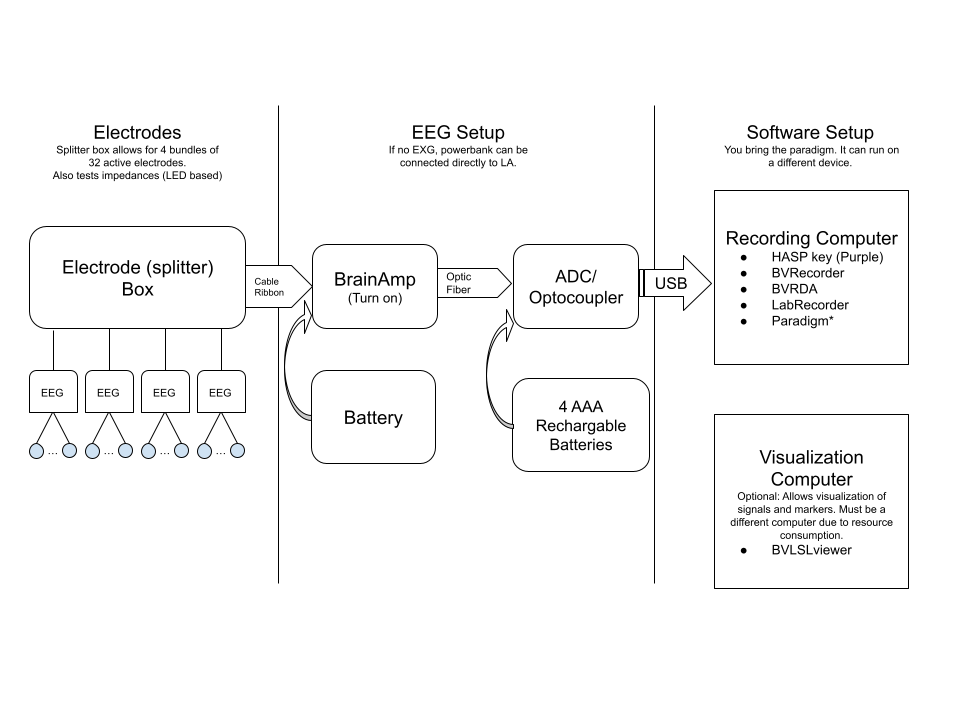
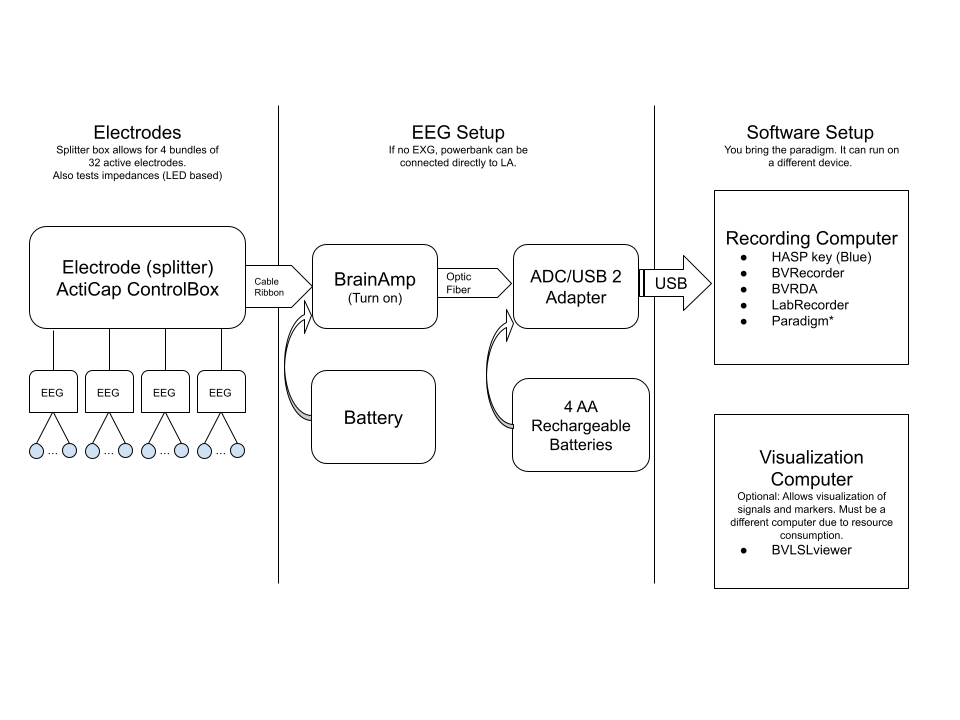
Update BrainAmp diagram

diff --git a/BrainAmp/README.md b/BrainAmp/README.md
@@ -2,7 +2,7 @@
 
 The following diagrams and checklists can help you setup your experiment consistently. If you have any observation or suggestion please open an issue or make a PR.
 
-![Diagram for BrainAmp](./DiagramBrainAmp.png)
+![Diagram for BrainAmp](./DiagramBrainAmp.jpg)
 
 ### Layouts
 
@@ -15,7 +15,7 @@ No current default layout for BrainAmp.
 ### Preparation
 
 - Print your EEG layout
-- Charge batteries: 4 AAA bateries available at the lab.
+- Charge batteries: 4 AA bateries available at the lab.
 - Make sure electrodes are available and clean.
 - Check you have the consumables you need:
   - Conductive gel and syringes
